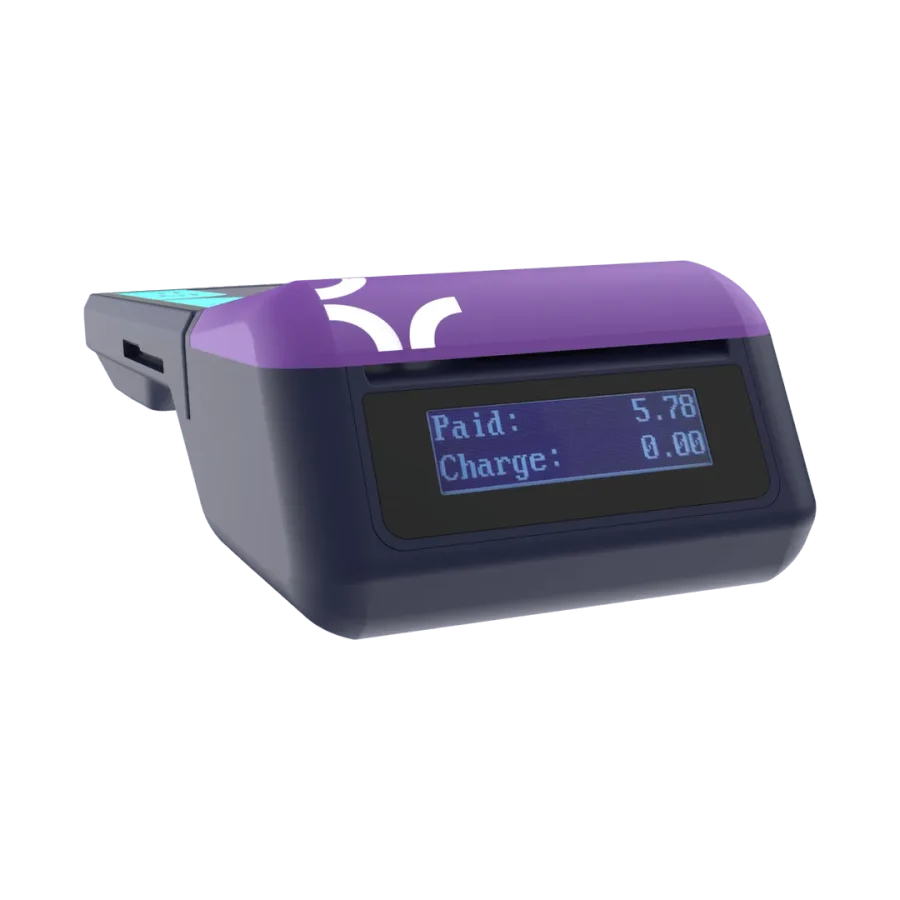
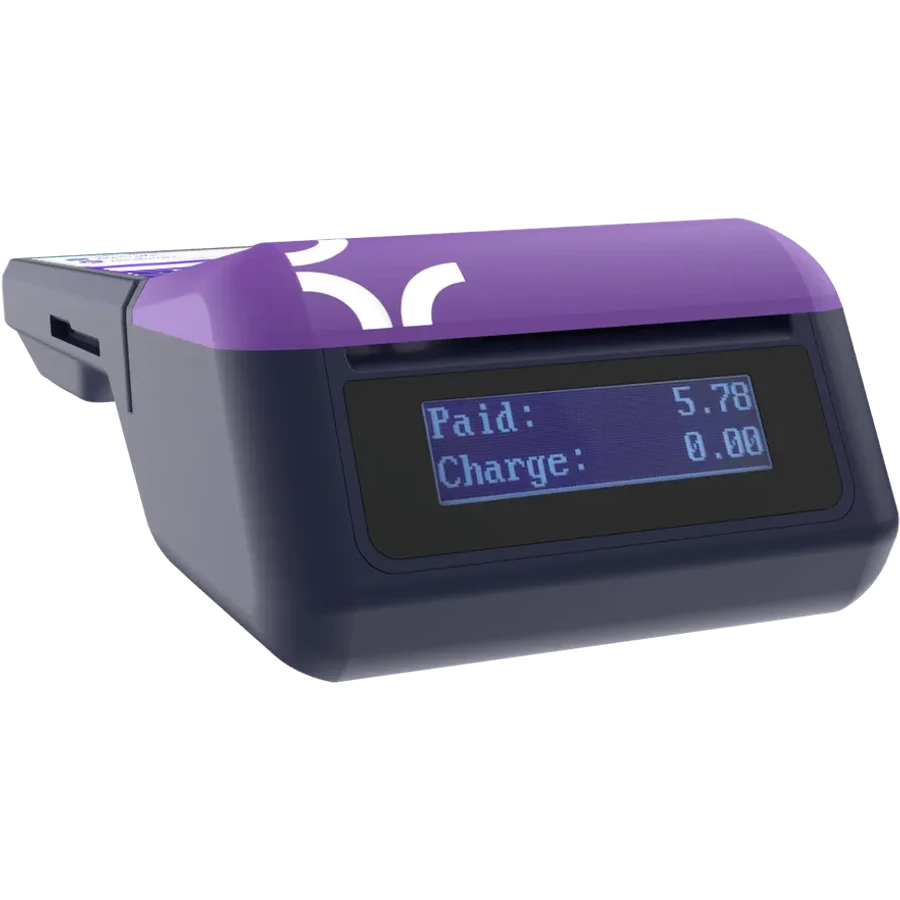
Real terminal photos for Malta; drop the drawn terminal
Refresh the Bank Pro S (Malta) shot set with the updated renders — the
screens now show the actual cash-register app instead of the old mock UI:
front, angle-r, dual (customer-facing display), back and hero.

Replace the hand-drawn SVG terminal in the cash-register day-walk with
the real device photo, picked per market via terminalModel() so Malta
gets the Bank Pro S and every other country the Bank Pro.

The Tap to Phone illustration stays a drawn phone — that product is about
paying on a phone, not on our terminal.

Claude-Session: https://claude.ai/code/session_01JRY5pAUozeWyNNUS2i5TTK

Changed region(s): [[0.0, 0.2178, 1.0, 0.7778]]

diff --git a/components/product/day-walk.tsx b/components/product/day-walk.tsx
@@ -1,9 +1,10 @@
 "use client";
 
+import Image from "next/image";
 import { useState } from "react";
 import { useCountry } from "@/components/country/country-context";
 import { tr } from "@/lib/dictionaries";
-import type { Lang } from "@/lib/countries";
+import { terminalModel, TERMINAL_MODELS, type Country, type Lang } from "@/lib/countries";
 
 const STEP_MS = 4500;
 
@@ -49,21 +50,16 @@ function copyFor(lang: Lang) {
 
 type Copy = ReturnType<typeof copyFor>;
 
-function PayScene() {
+/* The real device photo for the visitor's market (Malta gets the dual-screen
+   Bank Pro S, every other country the Bank Pro). */
+function PayScene({ country }: { country: Country }) {
+  const { dir, name } = TERMINAL_MODELS[terminalModel(country)];
   return (
     <div className="grid w-full max-w-70 place-items-center">
-      <svg viewBox="0 0 200 220" className="w-40" aria-hidden>
-        <rect x="46" y="20" width="108" height="180" rx="22" fill="#1d1d1f" />
-        <rect x="62" y="36" width="76" height="86" rx="10" fill="#0e0e10" />
-        <text x="100" y="76" fontSize="18" fontWeight="700" textAnchor="middle" fill="#fff" fontFamily="IBM Plex Mono, monospace">€24.60</text>
-        <text x="100" y="98" fontSize="8" textAnchor="middle" fill="#a578e8" fontFamily="IBM Plex Mono, monospace">Approved ✓</text>
-        <g stroke="rgba(255,255,255,0.35)" strokeWidth="2" fill="none" strokeLinecap="round">
-          <path d="M90 54 a10 10 0 0 1 20 0" />
-        </g>
-        <g fill="rgba(255,255,255,0.14)">
-          {[0, 1, 2].map((c) => [0, 1, 2].map((r) => <circle key={`${c}-${r}`} cx={76 + c * 24} cy={140 + r * 20} r="6" />))}
-        </g>
-      </svg>
+      <div className="relative aspect-square w-52">
+        <div className="pointer-events-none absolute bottom-[14%] left-1/2 h-6 w-1/2 -translate-x-1/2 rounded-[50%] bg-[radial-gradient(ellipse,rgba(29,29,31,0.16),transparent_70%)] blur-md" />
+        <Image src={`${dir}/hero.webp`} alt={`${name} payment terminal`} fill sizes="208px" className="object-contain" />
+      </div>
     </div>
   );
 }
@@ -142,12 +138,12 @@ function AccountantScene({ c }: { c: Copy }) {
 }
 
 export function DayWalk() {
-  const { lang } = useCountry();
+  const { country, lang } = useCountry();
   const c = copyFor(lang);
   const [active, setActive] = useState(0);
   const [paused, setPaused] = useState(false);
 
-  const scenes = [<PayScene key="0" />, <ReceiptScene key="1" c={c} />, <CloseScene key="2" c={c} />, <MoneyScene key="3" />, <AccountantScene key="4" c={c} />];
+  const scenes = [<PayScene key="0" country={country} />, <ReceiptScene key="1" c={c} />, <CloseScene key="2" c={c} />, <MoneyScene key="3" />, <AccountantScene key="4" c={c} />];
   const advance = () => setActive((a) => (a + 1) % c.steps.length);
   const pick = (i: number) => setActive(i);
 
